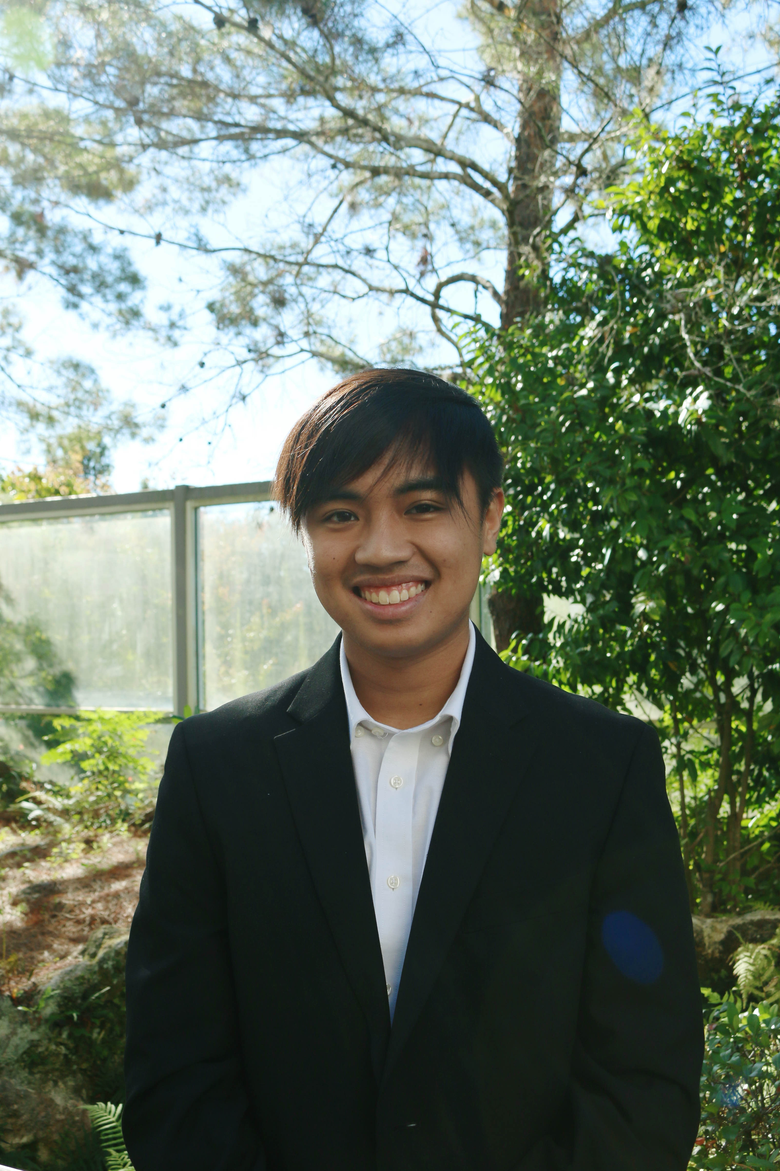
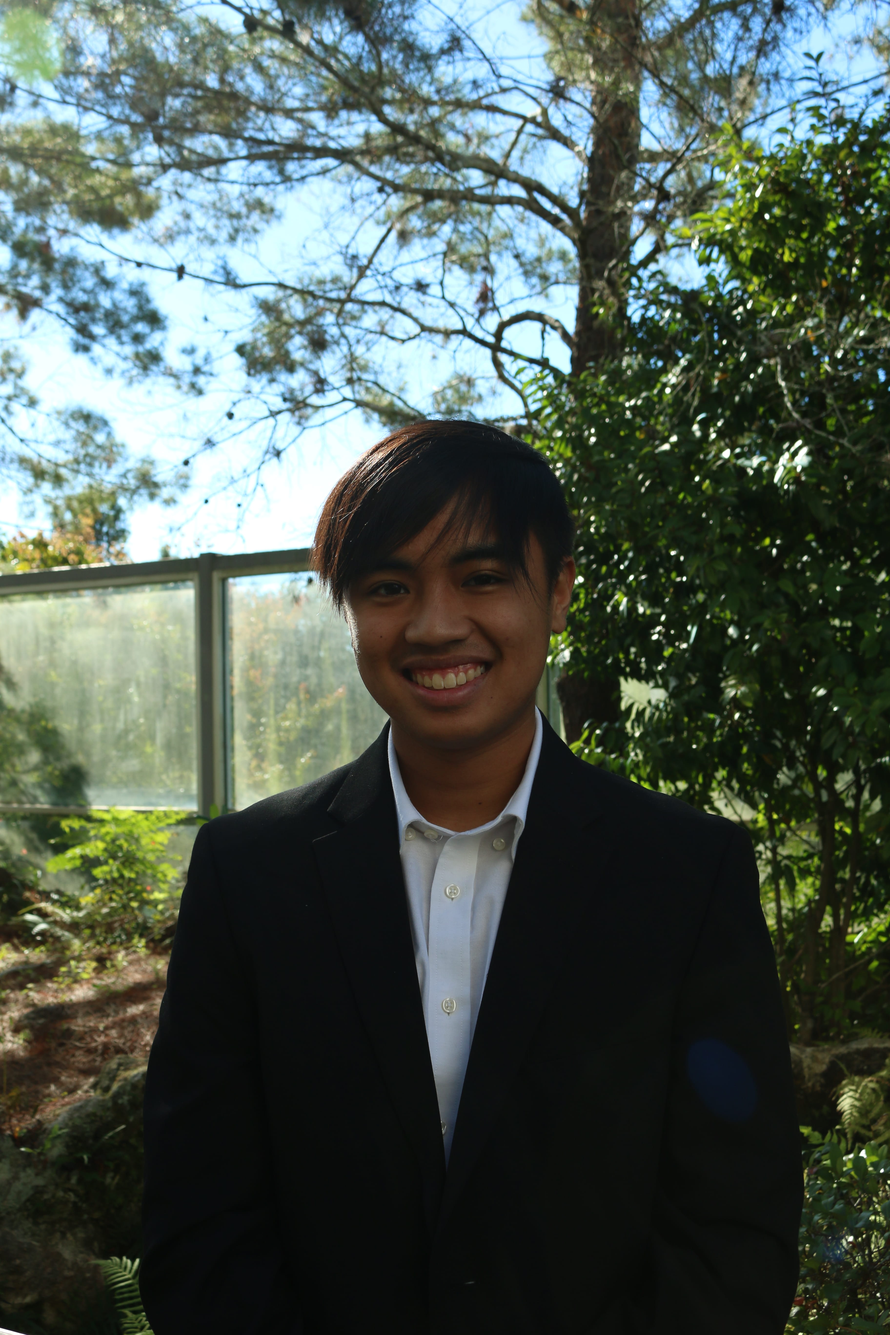
updated image loading time

diff --git a/frontend/src/pages/Programs/WEB INTERNS/WebInterns.js b/frontend/src/pages/Programs/WEB INTERNS/WebInterns.js
@@ -3,20 +3,20 @@ import './WebInterns.css'
 
 import Default from './photos/default.png';
 import Lynette from './photos/Lynette.JPG';
-import RJ from './photos/RJ.JPG';
-import Matt from './photos/Matt.JPG';
-import Jaden from './photos/Jaden.JPG';
-import Alex from './photos/Alex.JPG';
-import Andrew from './photos/Andrew.JPG';
-import Brian from './photos/Brian.JPG';
-import Joyce from './photos/Joyce.JPG';
-import Kyle from './photos/Kyle.JPG';
-import Nate from './photos/Nate.JPG';
-import Pari from './photos/Pari.JPG';
+import RJ from './photos/RJ.jpg';
+import Matt from './photos/Matt.jpg';
+import Jaden from './photos/Jaden.jpg';
+import Alex from './photos/Alex.jpg';
+import Andrew from './photos/Andrew.jpg';
+import Brian from './photos/Brian.jpg';
+import Joyce from './photos/Joyce.jpg';
+import Kyle from './photos/Kyle.jpg';
+import Nate from './photos/Nate.jpg';
+import Pari from './photos/Pari.jpg';
 import Patrick from './photos/Patrick.jpg';
-import Ronald from './photos/Ronald.JPG';
-import Vyan from './photos/Vyan.JPG';
-import Xenia from './photos/Xenia.JPG';
+import Ronald from './photos/Ronald.jpg';
+import Vyan from './photos/Vyan.jpg';
+import Xenia from './photos/Xenia.jpg';
 
 const WebInterns = () => {
     return (
